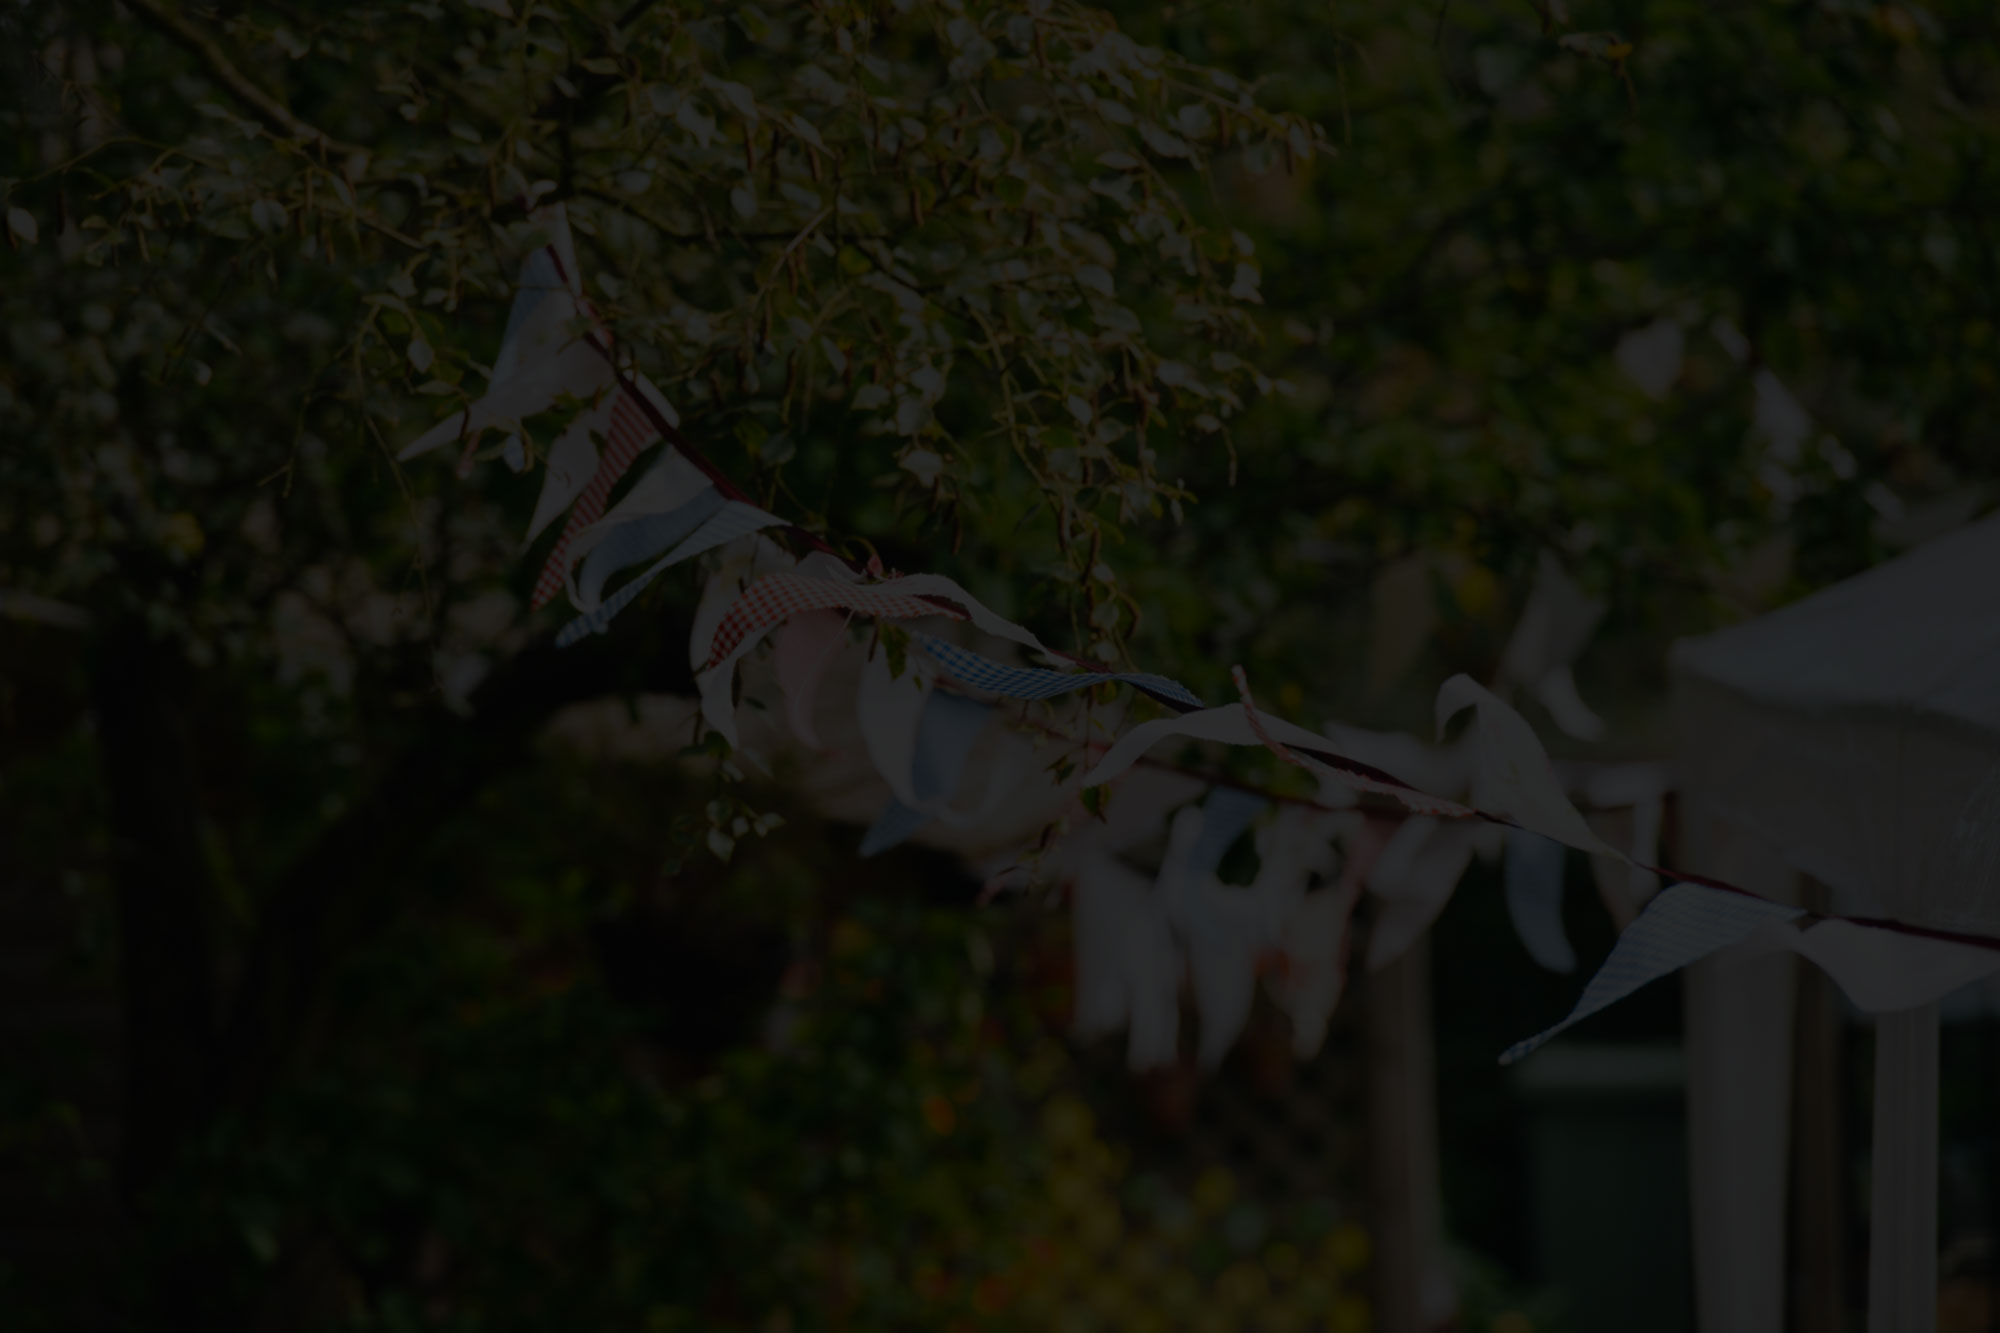
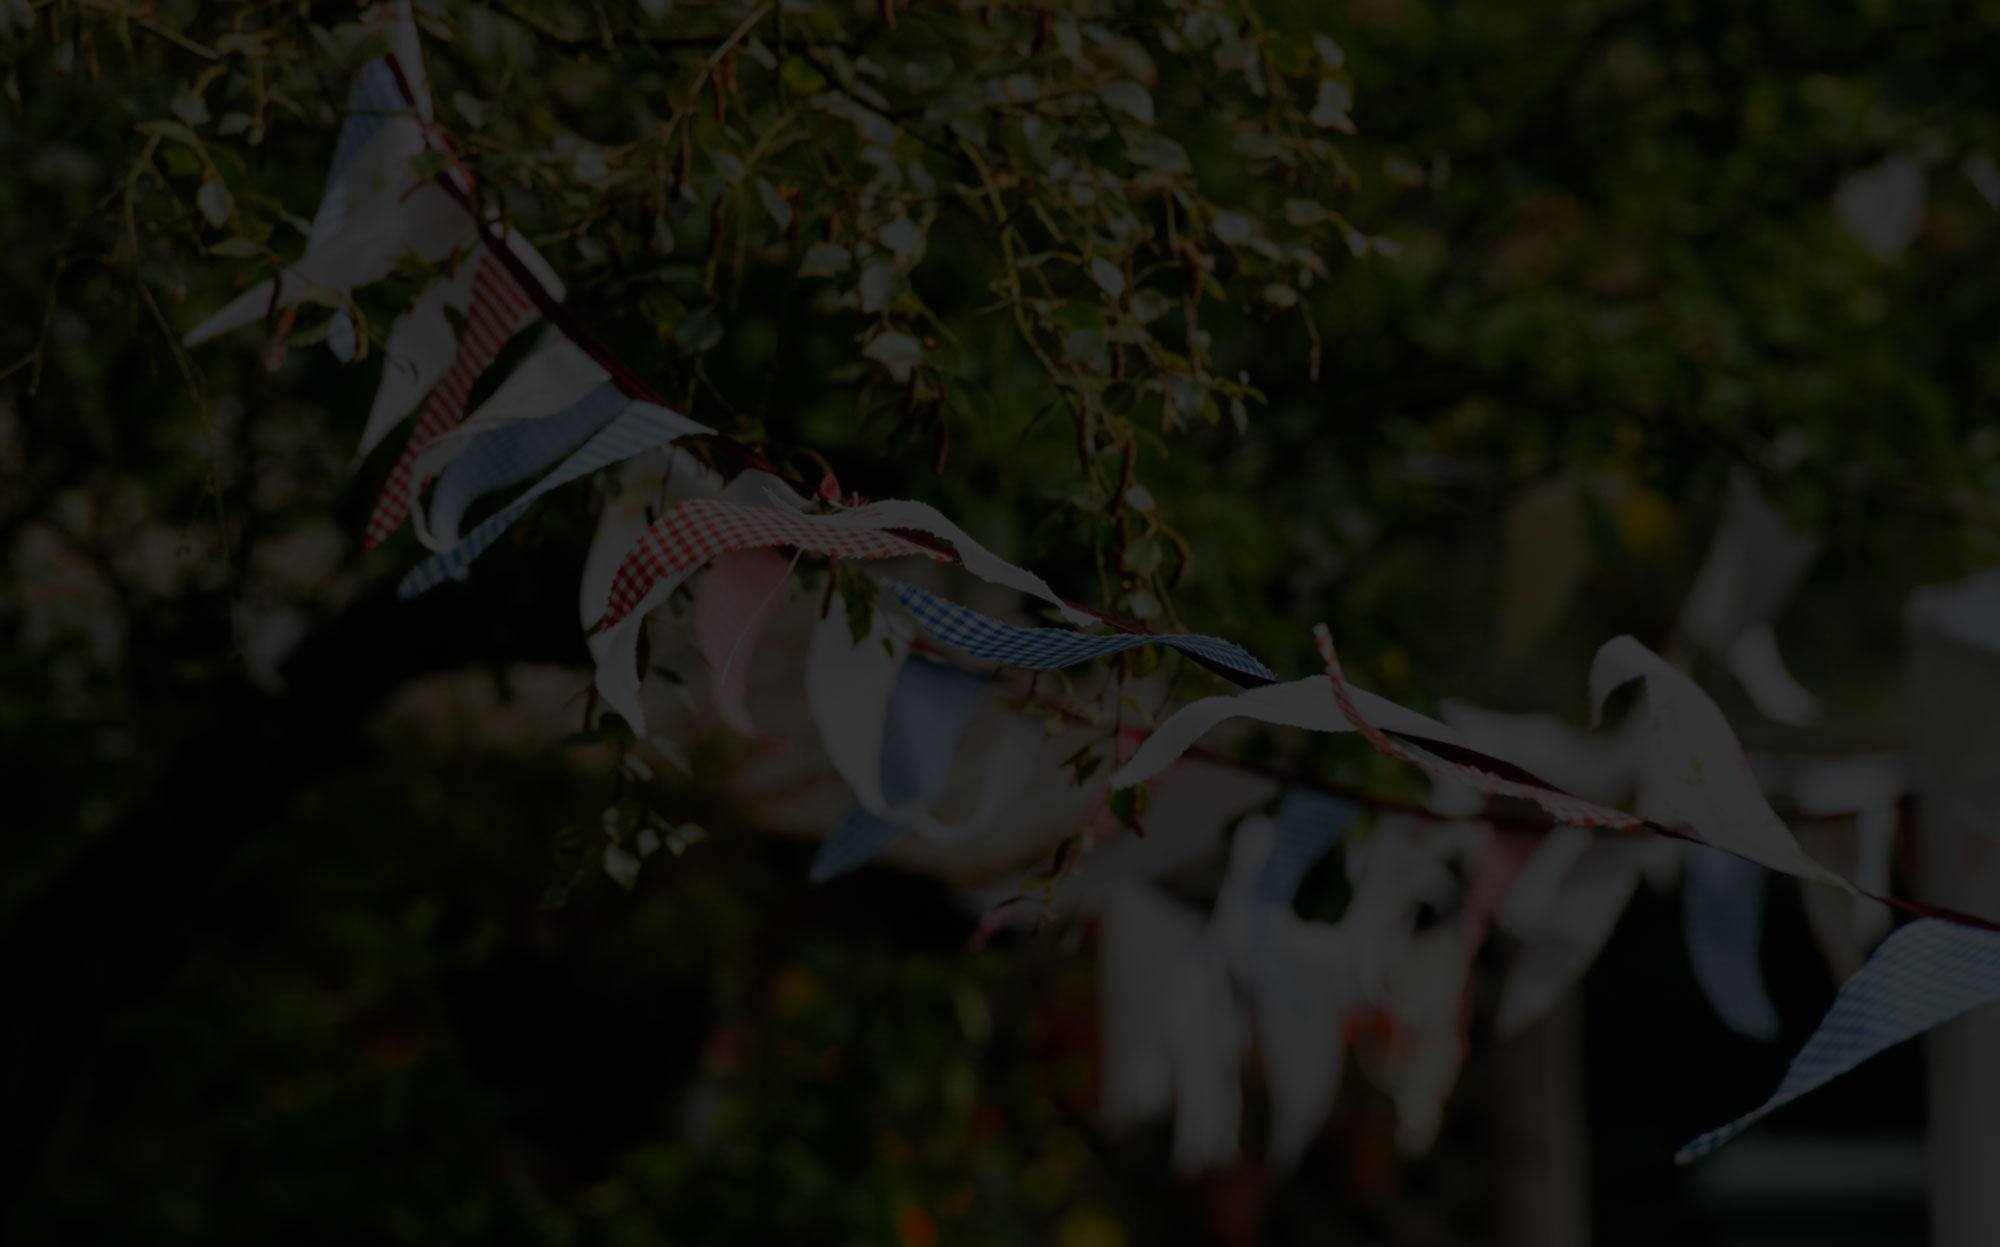
brightened up background images for main and projects

diff --git a/app/assets/stylesheets/projects.scss b/app/assets/stylesheets/projects.scss
@@ -11,7 +11,8 @@
   background-color: rgba(25,25,25,0.85);
 }*/
 
-.projects-bg{
+.projects-bg,
+.info-bg{
   background-color: #191919;
   width: 100%;
 }
